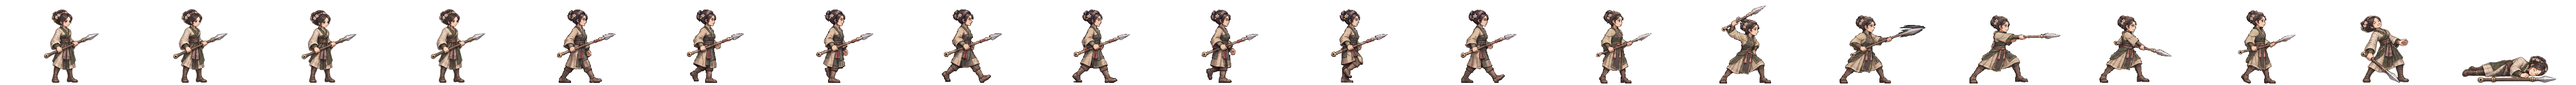
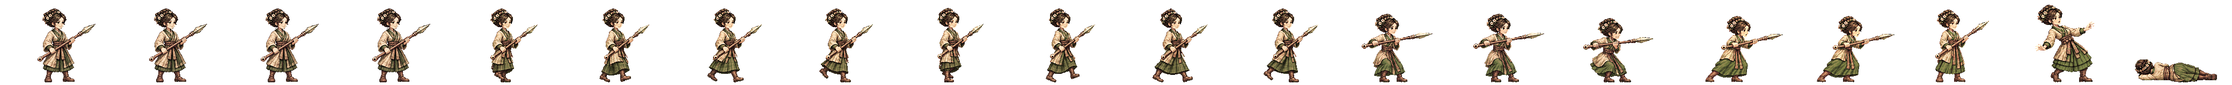
미리 군주 달래 새 전투 띠를 게임에 넣음(서기·걷기·창 찌르기 여덟 칸·쓰러짐·들꽃 고쳐 꽂기)
쓰러짐은 몸이 길게 나와 한 번 다시 그림(치마 길이·비율을 서기에 맞춤).
띠 검사 합격(경고 없음) · 시험 2162 통과.

Claude-Session: https://claude.ai/code/session_01TRiuN7s6aDfSnaHxrkctmU

Changed region(s): [[0.4688, 0.0625, 1.0, 1.0], [0.0, 0.125, 0.4375, 0.9688]]

diff --git a/src/realm/data/spritePx.ts b/src/realm/data/spritePx.ts
@@ -1,3 +1,3 @@
 /** public/realm/anim-px/manifest.json 의 사본 — tools/sprite-normalize.mjs 가 만든다 (손으로 고치지 말 것). 칸 [가로, 세로] · feet = 발 줄(칸 위에서 y) · bodyPx = 서 있는 몸 키 */
 import { expandManifest } from './sprite-manifest.ts'
-export const SPRITE_PX: Readonly<Record<string, { readonly cell: readonly [number, number]; readonly feet: number; readonly bodyPx: number; readonly kind: 'general' | 'soldier' | 'folk' | 'crowd'; readonly cells: number }>> = expandManifest<{ readonly cell: readonly [number, number]; readonly feet: number; readonly bodyPx: number; readonly kind: 'general' | 'soldier' | 'folk' | 'crowd'; readonly cells: number }>([{"cell":[166,128],"feet":126,"bodyPx":124,"kind":"soldier","cells":20},{"cell":[116,128],"feet":126,"bodyPx":117,"kind":"soldier","cells":20},{"cell":[127,128],"feet":126,"bodyPx":116,"kind":"soldier","cells":20},{"cell":[269,128],"feet":126,"bodyPx":126,"kind":"soldier","cells":20},{"cell":[503,128],"feet":126,"bodyPx":127,"kind":"soldier","cells":20},{"cell":[614,128],"feet":126,"bodyPx":126,"kind":"soldier","cells":20},{"cell":[200,160],"feet":156,"bodyPx":138,"kind":"general","cells":20},{"cell":[208,160],"feet":155,"bodyPx":138,"kind":"general","cells":20},{"cell":[232,160],"feet":156,"bodyPx":138,"kind":"general","cells":20},{"cell":[208,160],"feet":154,"bodyPx":138,"kind":"general","cells":20},{"cell":[304,160],"feet":155,"bodyPx":135,"kind":"general","cells":20},{"cell":[224,160],"feet":156,"bodyPx":139,"kind":"general","cells":20},{"cell":[184,160],"feet":156,"bodyPx":138,"kind":"general","cells":20},{"cell":[208,160],"feet":154,"bodyPx":136,"kind":"general","cells":20},{"cell":[240,160],"feet":156,"bodyPx":138,"kind":"general","cells":20},{"cell":[208,160],"feet":156,"bodyPx":138,"kind":"general","cells":20},{"cell":[168,160],"feet":156,"bodyPx":138,"kind":"general","cells":20},{"cell":[192,160],"feet":156,"bodyPx":138,"kind":"general","cells":20},{"cell":[168,160],"feet":156,"bodyPx":124,"kind":"general","cells":20},{"cell":[216,160],"feet":156,"bodyPx":130,"kind":"general","cells":20},{"cell":[200,160],"feet":156,"bodyPx":116,"kind":"general","cells":20},{"cell":[200,160],"feet":156,"bodyPx":135,"kind":"general","cells":20},{"cell":[280,160],"feet":156,"bodyPx":138,"kind":"general","cells":20},{"cell":[232,160],"feet":155,"bodyPx":138,"kind":"general","cells":20},{"cell":[232,160],"feet":156,"bodyPx":134,"kind":"general","cells":20},{"cell":[144,160],"feet":156,"bodyPx":70,"kind":"general","cells":20},{"cell":[208,160],"feet":156,"bodyPx":70,"kind":"general","cells":20},{"cell":[192,160],"feet":156,"bodyPx":70,"kind":"general","cells":20},{"cell":[240,160],"feet":155,"bodyPx":138,"kind":"general","cells":20},{"cell":[160,160],"feet":156,"bodyPx":135,"kind":"general","cells":20},{"cell":[192,160],"feet":156,"bodyPx":128,"kind":"general","cells":20},{"cell":[224,160],"feet":155,"bodyPx":138,"kind":"general","cells":20},{"cell":[232,160],"feet":156,"bodyPx":139,"kind":"general","cells":20},{"cell":[264,160],"feet":155,"bodyPx":138,"kind":"general","cells":20},{"cell":[216,160],"feet":156,"bodyPx":138,"kind":"general","cells":20},{"cell":[208,160],"feet":156,"bodyPx":134,"kind":"general","cells":20},{"cell":[176,160],"feet":156,"bodyPx":130,"kind":"general","cells":20},{"cell":[248,160],"feet":156,"bodyPx":138,"kind":"general","cells":20},{"cell":[248,160],"feet":155,"bodyPx":138,"kind":"general","cells":20},{"cell":[192,160],"feet":155,"bodyPx":138,"kind":"general","cells":20},{"cell":[192,160],"feet":156,"bodyPx":124,"kind":"general","cells":20},{"cell":[208,160],"feet":154,"bodyPx":131,"kind":"general","cells":20},{"cell":[256,160],"feet":156,"bodyPx":138,"kind":"general","cells":20},{"cell":[232,160],"feet":156,"bodyPx":73,"kind":"general","cells":20},{"cell":[256,160],"feet":155,"bodyPx":138,"kind":"general","cells":20},{"cell":[224,160],"feet":156,"bodyPx":138,"kind":"general","cells":20},{"cell":[264,160],"feet":156,"bodyPx":138,"kind":"general","cells":20},{"cell":[224,160],"feet":156,"bodyPx":128,"kind":"general","cells":20},{"cell":[176,160],"feet":156,"bodyPx":129,"kind":"general","cells":20},{"cell":[208,160],"feet":156,"bodyPx":132,"kind":"general","cells":20},{"cell":[216,160],"feet":155,"bodyPx":138,"kind":"general","cells":20},{"cell":[184,160],"feet":156,"bodyPx":122,"kind":"general","cells":20},{"cell":[176,160],"feet":156,"bodyPx":138,"kind":"general","cells":20},{"cell":[280,160],"feet":155,"bodyPx":133,"kind":"general","cells":20},{"cell":[176,160],"feet":156,"bodyPx":70,"kind":"general","cells":20},{"cell":[186,128],"feet":126,"bodyPx":127,"kind":"soldier","cells":20},{"cell":[298,128],"feet":126,"bodyPx":126,"kind":"soldier","cells":20},{"cell":[82,128],"feet":126,"bodyPx":114,"kind":"folk","cells":8},{"cell":[134,128],"feet":126,"bodyPx":119,"kind":"soldier","cells":20},{"cell":[380,128],"feet":126,"bodyPx":124,"kind":"soldier","cells":20},{"cell":[114,128],"feet":126,"bodyPx":115,"kind":"soldier","cells":20},{"cell":[122,128],"feet":126,"bodyPx":114,"kind":"soldier","cells":20},{"cell":[254,128],"feet":126,"bodyPx":128,"kind":"soldier","cells":20},{"cell":[438,128],"feet":126,"bodyPx":126,"kind":"soldier","cells":20},{"cell":[88,128],"feet":126,"bodyPx":113,"kind":"folk","cells":8},{"cell":[100,128],"feet":126,"bodyPx":115,"kind":"folk","cells":8},{"cell":[108,128],"feet":126,"bodyPx":115,"kind":"folk","cells":8},{"cell":[63,128],"feet":126,"bodyPx":113,"kind":"folk","cells":8},{"cell":[69,96],"feet":96,"bodyPx":96,"kind":"crowd","cells":1},{"cell":[54,96],"feet":96,"bodyPx":96,"kind":"crowd","cells":1},{"cell":[47,96],"feet":96,"bodyPx":96,"kind":"crowd","cells":1},{"cell":[49,96],"feet":96,"bodyPx":96,"kind":"crowd","cells":1},{"cell":[57,96],"feet":96,"bodyPx":96,"kind":"crowd","cells":1},{"cell":[55,96],"feet":96,"bodyPx":96,"kind":"crowd","cells":1},{"cell":[45,96],"feet":96,"bodyPx":96,"kind":"crowd","cells":1},{"cell":[53,96],"feet":96,"bodyPx":96,"kind":"crowd","cells":1},{"cell":[64,96],"feet":96,"bodyPx":96,"kind":"crowd","cells":1},{"cell":[208,160],"feet":154,"bodyPx":139,"kind":"general","cells":20},{"cell":[184,160],"feet":156,"bodyPx":124,"kind":"general","cells":20},{"cell":[184,160],"feet":156,"bodyPx":134,"kind":"general","cells":20},{"cell":[224,160],"feet":156,"bodyPx":133,"kind":"general","cells":20},{"cell":[192,160],"feet":156,"bodyPx":135,"kind":"general","cells":20},{"cell":[184,160],"feet":156,"bodyPx":137,"kind":"general","cells":20},{"cell":[216,160],"feet":156,"bodyPx":134,"kind":"general","cells":20},{"cell":[216,160],"feet":156,"bodyPx":132,"kind":"general","cells":20},{"cell":[288,160],"feet":156,"bodyPx":138,"kind":"general","cells":20},{"cell":[192,160],"feet":156,"bodyPx":118,"kind":"general","cells":20},{"cell":[192,160],"feet":156,"bodyPx":134,"kind":"general","cells":20},{"cell":[192,160],"feet":157,"bodyPx":139,"kind":"general","cells":20},{"cell":[184,160],"feet":156,"bodyPx":128,"kind":"general","cells":20},{"cell":[240,160],"feet":156,"bodyPx":128,"kind":"general","cells":20},{"cell":[184,160],"feet":156,"bodyPx":132,"kind":"general","cells":20},{"cell":[208,160],"feet":156,"bodyPx":123,"kind":"general","cells":20},{"cell":[208,160],"feet":154,"bodyPx":137,"kind":"general","cells":20},{"cell":[176,160],"feet":156,"bodyPx":116,"kind":"general","cells":20},{"cell":[272,160],"feet":156,"bodyPx":138,"kind":"general","cells":20},{"cell":[176,160],"feet":156,"bodyPx":122,"kind":"general","cells":20},{"cell":[232,160],"feet":156,"bodyPx":127,"kind":"general","cells":20},{"cell":[176,160],"feet":156,"bodyPx":137,"kind":"general","cells":20},{"cell":[184,160],"feet":156,"bodyPx":133,"kind":"general","cells":20}],[["axe",0],["bandit-chief",1],["bandit-club",2],["boat",3],["bow",4],["crossbow",5],["gen-adogan",6],["gen-alpyeong",7],["gen-ara",8],["gen-areum",9],["gen-aryeong",10],["gen-bakdal",6],["gen-baram",11],["gen-bdanbi",12],["gen-beom",13],["gen-beombal",12],["gen-beomi",14],["gen-bira",8],["gen-biryu",15],["gen-budeul",16],["gen-byeol",17],["gen-daemusin",18],["gen-daeso",19],["gen-dallae2",12],["gen-dalli",12],["gen-damul",20],["gen-danbi",15],["gen-dangung",17],["gen-darae",21],["gen-dokmudeom",7],["gen-duman",22],["gen-eomni",23],["gen-eureum",24],["gen-g-bow",25],["gen-g-spear",26],["gen-g-sword",27],["gen-gaennae",6],["gen-gamsil",28],["gen-gaon",29],["gen-geota",15],["gen-geumbawi",12],["gen-geumha",30],["gen-goeun",15],["gen-gom",31],["gen-gomok",15],["gen-gureum",28],["gen-guryema",17],["gen-gwaeyu",8],["gen-haebi",9],["gen-haedal",6],["gen-haesol",32],["gen-halla",7],["gen-heo",33],["gen-hneoul",12],["gen-hogong",34],["gen-hojin",15],["gen-horselord",35],["gen-hwalmi",36],["gen-hyeokgeose",17],["gen-hyeopbo",6],["gen-irang",15],["gen-jibaekho",37],["gen-jinha",38],["gen-jita",39],["gen-jumong",40],["gen-keundol",7],["gen-maehwa",41],["gen-maenun",17],["gen-malgalgi",42],["gen-mari",14],["gen-maro",37],["gen-maryeo",15],["gen-mdallae",32],["gen-mir",6],["gen-mount",43],["gen-mulbeom",44],["gen-mulsae",34],["gen-musoe",34],["gen-noeul",45],["gen-nuri",46],["gen-ocheongan",45],["gen-odi",38],["gen-odogan",6],["gen-ogan",17],["gen-oi",47],["gen-olddaeso",24],["gen-onjo",48],["gen-pidogan",15],["gen-sagong",31],["gen-sdallae",6],["gen-sincheongan",34],["gen-singwigan",34],["gen-sinneoul",23],["gen-sobeol",23],["gen-soebi",6],["gen-soebo",49],["gen-soenun",37],["gen-sogeumbi",50],["gen-songbi",45],["gen-songyang",51],["gen-sori",52],["gen-soseono",53],["gen-suro",17],["gen-tahae",6],["gen-tneoul",45],["gen-w-bow",25],["gen-w-spear",54],["gen-waechief",15],["gen-wan",34],["gen-yeodogan",15],["gen-yucheongan",15],["gen-yusugan",37],["horse",55],["marine",56],["migrant",57],["militia",58],["pike",59],["pirate-captain",60],["pirate-sword",61],["shield",62],["spear",63],["villager-builder",64],["villager-farmer",65],["villager-porter",66],["villager-woman",67],["crowd-b1",68],["crowd-b2",69],["crowd-b3",70],["crowd-b4",71],["crowd-b5",72],["crowd-b6",73],["crowd-f1",68],["crowd-f2",73],["crowd-f3",74],["crowd-f4",75],["crowd-f5",68],["crowd-f6",76],["gen-dalbit",15],["gen-base-g-07-drunk-warrior",17],["gen-base-g-40-anya-adan",15],["gen-base-w-13-young-archer",9],["gen-base-g-03-sea-trader",14],["gen-base-w-10-pirate-captain",77],["gen-base-w-64-miri-dallae",14],["gen-base-g-41-goja-bau",14],["gen-base-g-42-dokro-garam",46],["gen-base-g-09-farmer-conscript",34],["gen-base-w-02-goguryeo-lady",34],["gen-base-w-17-mahan-pearl-diver",9],["gen-base-g-17-saro-isageum",49],["gen-base-g-18-daegaya-king",78],["gen-base-g-35-dabeol-dalgu",15],["gen-base-g-19-sabeol-veteran",34],["gen-base-w-23-usisan-whale-queen",34],["gen-base-g-36-gammun-gamdol",45],["gen-base-g-20-samul-sea-lord",42],["gen-base-g-37-eumjeup-jeup",12],["gen-base-g-38-chopal-palmae",17],["gen-base-w-75-daegaya-soemoe",17],["gen-base-g-45-dabeol-deulgae",12],["gen-base-g-04-jinhan-giant",15],["gen-base-g-08-veteran",15],["gen-base-w-18-jinhan-salt-widow",15],["gen-base-w-12-court-dancer",79],["gen-base-w-83-gyeonji-beodeul",80],["gen-base-w-05-baekje-queen",81],["gen-base-w-21-baekje-court-dancer",12],["gen-base-g-01-master-smith",82],["gen-base-g-93-jomun-solgae",36],["gen-base-g-57-bihwa-neup",14],["gen-base-w-72-eumjeup-beol",15],["gen-base-w-102-garak-dana",34],["gen-base-g-68-baekje-onnuri",15],["gen-base-w-27-mokji-jinha",6],["gen-base-g-22-ungcheon-gomnae",6],["gen-base-g-23-sangdang-soedal",15],["gen-base-g-24-wansan-onsan",6],["gen-base-g-25-balla-keunmoe",34],["gen-base-g-61-heomcheuk-bawi",34],["gen-base-g-88-wander-soeul",45],["gen-base-w-14-feast-spy",6],["gen-base-g-12-silla-youth",83],["gen-base-w-08-mahan-warrior",14],["gen-base-g-62-beonye-hanul",14],["gen-base-g-63-heomcheuk-beogeum",15],["gen-base-g-84-wander-seoneul",15],["gen-base-w-50-siljik-mulga",34],["gen-base-g-46-uga-nureongso",34],["gen-base-w-80-usan-gangchi",14],["gen-base-g-47-guga-sanyanggae",34],["gen-base-w-76-gampyeong-baetsagong",37],["gen-base-g-05-mahan-chieftain",84],["gen-base-g-58-usan-uhae",15],["gen-base-g-27-maek-maekdol",15],["gen-base-w-53-hwanna-gabi",16],["gen-base-w-29-golpo-janmul",37],["gen-base-g-53-baekje-haeru",6],["gen-base-w-71-yeonna-neoul",14],["gen-base-w-79-yangmaek-solmae",34],["gen-base-w-34-chopal-deulme",46],["gen-base-g-44-maga-malgup",85],["gen-base-w-31-dabeol-dalbit",77],["gen-base-g-51-biryuna-mulgyeol",45],["gen-base-g-48-gwanna-musoe",15],["gen-base-g-32-uga-sodu",8],["gen-base-g-49-goguryeo-sona",86],["gen-base-g-30-gwanna-soemoe",45],["gen-base-g-52-tamna-oreum",12],["gen-base-g-29-yeonna-myeongsol",40],["gen-base-w-56-dongokjeo-sogeum",87],["gen-base-g-54-mokji-mahan",8],["gen-base-g-33-jeoga-metdol",17],["gen-base-w-36-baekje-maena",17],["gen-base-w-38-sangdang-bulmae",6],["gen-base-w-39-gosaburi-galmae",88],["gen-base-w-40-mujin-munui",49],["gen-base-w-41-hwanna-beodeul",89],["gen-base-w-43-uga-nuri",42],["gen-base-w-45-tamna-oreumbi",12],["gen-base-g-60-golbeol-golgae",12],["gen-base-g-61-apdok-ap",34],["gen-base-g-62-gammun-gamnamu",6],["gen-base-g-63-chopal-yeoul",37],["gen-base-g-64-michuhol-sogeumkkun",14],["gen-base-g-65-sangdang-soemangchi",45],["gen-base-g-66-geonma-malbalgup",90],["gen-base-g-67-gosaburi-buri",91],["gen-base-g-68-mujin-bitgoeul",12],["gen-base-g-69-goryong-yong",45],["gen-base-g-70-siljik-pado",14],["gen-base-w-81-byeokjin-byeolbit",8],["gen-base-w-46-geonma-maru",37],["gen-base-w-48-mujin-mudeung",14],["gen-base-g-26-gampyeong-gaetbeol",8],["gen-base-g-60-eupcha-hangyeol",92],["gen-base-g-15-shaman-man",34],["gen-base-g-85-wander-ure",37],["gen-base-g-43-hwanna-amnok",15],["gen-base-g-50-bullae-gwaha",81],["gen-base-g-55-saro-bakdal",15],["gen-base-g-56-haseulla-gwahama",6],["gen-base-w-06-buyeo-huntress",93],["gen-base-w-22-dongye-tiger-huntress",14],["gen-base-w-25-bihwa-priestess",34],["gen-base-w-24-apdok-queen",12],["gen-base-w-61-iseo-sinae",15],["gen-base-w-26-iseo-tomboy-general",46],["gen-base-g-59-yangmaek-maekson",94],["gen-aw1-haebi",45],["gen-aw1-soseono",95],["gen-aw1-gamsil",12],["gen-aw1-mir",52],["gen-aw1-dangung",6],["gen-aw1-ara",45],["gen-aw1-jumong",96],["gen-aw1-onjo",97],["gen-aw1-base-w-83-gyeonji-beodeul",17],["gen-aw1-heo",46],["gen-aw1-base-g-38-chopal-palmae",6],["gen-aw1-base-w-25-bihwa-priestess",79],["gen-aw1-sori",16],["gen-aw1-gomok",6],["gen-aw1-irang",17],["gen-aw1-budeul",16],["gen-aw1-gom",14],["gen-aw1-sdallae",6],["gen-aw1-base-w-13-young-archer",6],["gen-aw1-base-w-36-baekje-maena",98],["gen-aw1-base-g-09-farmer-conscript",46],["gen-aw1-base-w-02-goguryeo-lady",99],["gen-aw1-haedal",12],["gen-aw1-hogong",6],["gen-aw1-maehwa",52],["gen-aw1-base-w-06-buyeo-huntress",8],["gen-aw1-base-w-08-mahan-warrior",45],["gen-aw1-base-w-29-golpo-janmul",45],["gen-aw1-base-w-31-dabeol-dalbit",17],["gen-aw1-base-w-38-sangdang-bulmae",16],["gen-aw1-bira",34],["gen-aw1-base-w-53-hwanna-gabi",16],["gen-aw1-base-w-56-dongokjeo-sogeum",52],["gen-aw1-base-w-72-eumjeup-beol",17],["gen-aw1-bdanbi",16],["gen-aw1-beom",12],["gen-aw1-beombal",12],["gen-aw1-byeol",17],["gen-aw1-dalli",52],["gen-aw1-malgalgi",37],["gen-aw1-sincheongan",34]])
+export const SPRITE_PX: Readonly<Record<string, { readonly cell: readonly [number, number]; readonly feet: number; readonly bodyPx: number; readonly kind: 'general' | 'soldier' | 'folk' | 'crowd'; readonly cells: number }>> = expandManifest<{ readonly cell: readonly [number, number]; readonly feet: number; readonly bodyPx: number; readonly kind: 'general' | 'soldier' | 'folk' | 'crowd'; readonly cells: number }>([{"cell":[166,128],"feet":126,"bodyPx":124,"kind":"soldier","cells":20},{"cell":[116,128],"feet":126,"bodyPx":117,"kind":"soldier","cells":20},{"cell":[127,128],"feet":126,"bodyPx":116,"kind":"soldier","cells":20},{"cell":[269,128],"feet":126,"bodyPx":126,"kind":"soldier","cells":20},{"cell":[503,128],"feet":126,"bodyPx":127,"kind":"soldier","cells":20},{"cell":[614,128],"feet":126,"bodyPx":126,"kind":"soldier","cells":20},{"cell":[200,160],"feet":156,"bodyPx":138,"kind":"general","cells":20},{"cell":[208,160],"feet":155,"bodyPx":138,"kind":"general","cells":20},{"cell":[232,160],"feet":156,"bodyPx":138,"kind":"general","cells":20},{"cell":[208,160],"feet":154,"bodyPx":138,"kind":"general","cells":20},{"cell":[304,160],"feet":155,"bodyPx":135,"kind":"general","cells":20},{"cell":[224,160],"feet":156,"bodyPx":139,"kind":"general","cells":20},{"cell":[184,160],"feet":156,"bodyPx":138,"kind":"general","cells":20},{"cell":[208,160],"feet":154,"bodyPx":136,"kind":"general","cells":20},{"cell":[240,160],"feet":156,"bodyPx":138,"kind":"general","cells":20},{"cell":[208,160],"feet":156,"bodyPx":138,"kind":"general","cells":20},{"cell":[168,160],"feet":156,"bodyPx":138,"kind":"general","cells":20},{"cell":[192,160],"feet":156,"bodyPx":138,"kind":"general","cells":20},{"cell":[168,160],"feet":156,"bodyPx":124,"kind":"general","cells":20},{"cell":[216,160],"feet":156,"bodyPx":130,"kind":"general","cells":20},{"cell":[200,160],"feet":156,"bodyPx":116,"kind":"general","cells":20},{"cell":[200,160],"feet":156,"bodyPx":135,"kind":"general","cells":20},{"cell":[280,160],"feet":156,"bodyPx":138,"kind":"general","cells":20},{"cell":[232,160],"feet":155,"bodyPx":138,"kind":"general","cells":20},{"cell":[232,160],"feet":156,"bodyPx":134,"kind":"general","cells":20},{"cell":[144,160],"feet":156,"bodyPx":70,"kind":"general","cells":20},{"cell":[208,160],"feet":156,"bodyPx":70,"kind":"general","cells":20},{"cell":[192,160],"feet":156,"bodyPx":70,"kind":"general","cells":20},{"cell":[240,160],"feet":155,"bodyPx":138,"kind":"general","cells":20},{"cell":[160,160],"feet":156,"bodyPx":135,"kind":"general","cells":20},{"cell":[192,160],"feet":156,"bodyPx":128,"kind":"general","cells":20},{"cell":[224,160],"feet":155,"bodyPx":138,"kind":"general","cells":20},{"cell":[232,160],"feet":156,"bodyPx":139,"kind":"general","cells":20},{"cell":[264,160],"feet":155,"bodyPx":138,"kind":"general","cells":20},{"cell":[216,160],"feet":156,"bodyPx":138,"kind":"general","cells":20},{"cell":[208,160],"feet":156,"bodyPx":134,"kind":"general","cells":20},{"cell":[176,160],"feet":156,"bodyPx":130,"kind":"general","cells":20},{"cell":[248,160],"feet":156,"bodyPx":138,"kind":"general","cells":20},{"cell":[248,160],"feet":155,"bodyPx":138,"kind":"general","cells":20},{"cell":[192,160],"feet":155,"bodyPx":138,"kind":"general","cells":20},{"cell":[192,160],"feet":156,"bodyPx":124,"kind":"general","cells":20},{"cell":[208,160],"feet":154,"bodyPx":131,"kind":"general","cells":20},{"cell":[256,160],"feet":156,"bodyPx":138,"kind":"general","cells":20},{"cell":[232,160],"feet":156,"bodyPx":73,"kind":"general","cells":20},{"cell":[256,160],"feet":155,"bodyPx":138,"kind":"general","cells":20},{"cell":[224,160],"feet":156,"bodyPx":138,"kind":"general","cells":20},{"cell":[264,160],"feet":156,"bodyPx":138,"kind":"general","cells":20},{"cell":[224,160],"feet":156,"bodyPx":128,"kind":"general","cells":20},{"cell":[176,160],"feet":156,"bodyPx":129,"kind":"general","cells":20},{"cell":[208,160],"feet":156,"bodyPx":132,"kind":"general","cells":20},{"cell":[216,160],"feet":155,"bodyPx":138,"kind":"general","cells":20},{"cell":[184,160],"feet":156,"bodyPx":122,"kind":"general","cells":20},{"cell":[176,160],"feet":156,"bodyPx":138,"kind":"general","cells":20},{"cell":[280,160],"feet":155,"bodyPx":133,"kind":"general","cells":20},{"cell":[176,160],"feet":156,"bodyPx":70,"kind":"general","cells":20},{"cell":[186,128],"feet":126,"bodyPx":127,"kind":"soldier","cells":20},{"cell":[298,128],"feet":126,"bodyPx":126,"kind":"soldier","cells":20},{"cell":[82,128],"feet":126,"bodyPx":114,"kind":"folk","cells":8},{"cell":[134,128],"feet":126,"bodyPx":119,"kind":"soldier","cells":20},{"cell":[380,128],"feet":126,"bodyPx":124,"kind":"soldier","cells":20},{"cell":[114,128],"feet":126,"bodyPx":115,"kind":"soldier","cells":20},{"cell":[122,128],"feet":126,"bodyPx":114,"kind":"soldier","cells":20},{"cell":[254,128],"feet":126,"bodyPx":128,"kind":"soldier","cells":20},{"cell":[438,128],"feet":126,"bodyPx":126,"kind":"soldier","cells":20},{"cell":[88,128],"feet":126,"bodyPx":113,"kind":"folk","cells":8},{"cell":[100,128],"feet":126,"bodyPx":115,"kind":"folk","cells":8},{"cell":[108,128],"feet":126,"bodyPx":115,"kind":"folk","cells":8},{"cell":[63,128],"feet":126,"bodyPx":113,"kind":"folk","cells":8},{"cell":[69,96],"feet":96,"bodyPx":96,"kind":"crowd","cells":1},{"cell":[54,96],"feet":96,"bodyPx":96,"kind":"crowd","cells":1},{"cell":[47,96],"feet":96,"bodyPx":96,"kind":"crowd","cells":1},{"cell":[49,96],"feet":96,"bodyPx":96,"kind":"crowd","cells":1},{"cell":[57,96],"feet":96,"bodyPx":96,"kind":"crowd","cells":1},{"cell":[55,96],"feet":96,"bodyPx":96,"kind":"crowd","cells":1},{"cell":[45,96],"feet":96,"bodyPx":96,"kind":"crowd","cells":1},{"cell":[53,96],"feet":96,"bodyPx":96,"kind":"crowd","cells":1},{"cell":[64,96],"feet":96,"bodyPx":96,"kind":"crowd","cells":1},{"cell":[208,160],"feet":154,"bodyPx":139,"kind":"general","cells":20},{"cell":[184,160],"feet":156,"bodyPx":124,"kind":"general","cells":20},{"cell":[184,160],"feet":156,"bodyPx":134,"kind":"general","cells":20},{"cell":[224,160],"feet":156,"bodyPx":133,"kind":"general","cells":20},{"cell":[192,160],"feet":156,"bodyPx":135,"kind":"general","cells":20},{"cell":[184,160],"feet":156,"bodyPx":137,"kind":"general","cells":20},{"cell":[216,160],"feet":156,"bodyPx":134,"kind":"general","cells":20},{"cell":[216,160],"feet":156,"bodyPx":132,"kind":"general","cells":20},{"cell":[288,160],"feet":156,"bodyPx":138,"kind":"general","cells":20},{"cell":[192,160],"feet":156,"bodyPx":118,"kind":"general","cells":20},{"cell":[192,160],"feet":156,"bodyPx":134,"kind":"general","cells":20},{"cell":[192,160],"feet":157,"bodyPx":139,"kind":"general","cells":20},{"cell":[184,160],"feet":156,"bodyPx":128,"kind":"general","cells":20},{"cell":[240,160],"feet":156,"bodyPx":128,"kind":"general","cells":20},{"cell":[184,160],"feet":156,"bodyPx":132,"kind":"general","cells":20},{"cell":[208,160],"feet":156,"bodyPx":123,"kind":"general","cells":20},{"cell":[208,160],"feet":154,"bodyPx":137,"kind":"general","cells":20},{"cell":[176,160],"feet":156,"bodyPx":116,"kind":"general","cells":20},{"cell":[272,160],"feet":156,"bodyPx":138,"kind":"general","cells":20},{"cell":[176,160],"feet":156,"bodyPx":122,"kind":"general","cells":20},{"cell":[232,160],"feet":156,"bodyPx":127,"kind":"general","cells":20},{"cell":[176,160],"feet":156,"bodyPx":137,"kind":"general","cells":20},{"cell":[184,160],"feet":156,"bodyPx":133,"kind":"general","cells":20}],[["axe",0],["bandit-chief",1],["bandit-club",2],["boat",3],["bow",4],["crossbow",5],["gen-adogan",6],["gen-alpyeong",7],["gen-ara",8],["gen-areum",9],["gen-aryeong",10],["gen-bakdal",6],["gen-baram",11],["gen-bdanbi",12],["gen-beom",13],["gen-beombal",12],["gen-beomi",14],["gen-bira",8],["gen-biryu",15],["gen-budeul",16],["gen-byeol",17],["gen-daemusin",18],["gen-daeso",19],["gen-dallae2",12],["gen-dalli",12],["gen-damul",20],["gen-danbi",15],["gen-dangung",17],["gen-darae",21],["gen-dokmudeom",7],["gen-duman",22],["gen-eomni",23],["gen-eureum",24],["gen-g-bow",25],["gen-g-spear",26],["gen-g-sword",27],["gen-gaennae",6],["gen-gamsil",28],["gen-gaon",29],["gen-geota",15],["gen-geumbawi",12],["gen-geumha",30],["gen-goeun",15],["gen-gom",31],["gen-gomok",15],["gen-gureum",28],["gen-guryema",17],["gen-gwaeyu",8],["gen-haebi",9],["gen-haedal",6],["gen-haesol",32],["gen-halla",7],["gen-heo",33],["gen-hneoul",12],["gen-hogong",34],["gen-hojin",15],["gen-horselord",35],["gen-hwalmi",36],["gen-hyeokgeose",17],["gen-hyeopbo",6],["gen-irang",15],["gen-jibaekho",37],["gen-jinha",38],["gen-jita",39],["gen-jumong",40],["gen-keundol",7],["gen-maehwa",41],["gen-maenun",17],["gen-malgalgi",42],["gen-mari",14],["gen-maro",37],["gen-maryeo",15],["gen-mdallae",32],["gen-mir",6],["gen-mount",43],["gen-mulbeom",44],["gen-mulsae",34],["gen-musoe",34],["gen-noeul",45],["gen-nuri",46],["gen-ocheongan",45],["gen-odi",38],["gen-odogan",6],["gen-ogan",17],["gen-oi",47],["gen-olddaeso",24],["gen-onjo",48],["gen-pidogan",15],["gen-sagong",31],["gen-sdallae",6],["gen-sincheongan",34],["gen-singwigan",34],["gen-sinneoul",23],["gen-sobeol",23],["gen-soebi",6],["gen-soebo",49],["gen-soenun",37],["gen-sogeumbi",50],["gen-songbi",45],["gen-songyang",51],["gen-sori",52],["gen-soseono",53],["gen-suro",17],["gen-tahae",6],["gen-tneoul",45],["gen-w-bow",25],["gen-w-spear",54],["gen-waechief",15],["gen-wan",34],["gen-yeodogan",15],["gen-yucheongan",15],["gen-yusugan",37],["horse",55],["marine",56],["migrant",57],["militia",58],["pike",59],["pirate-captain",60],["pirate-sword",61],["shield",62],["spear",63],["villager-builder",64],["villager-farmer",65],["villager-porter",66],["villager-woman",67],["crowd-b1",68],["crowd-b2",69],["crowd-b3",70],["crowd-b4",71],["crowd-b5",72],["crowd-b6",73],["crowd-f1",68],["crowd-f2",73],["crowd-f3",74],["crowd-f4",75],["crowd-f5",68],["crowd-f6",76],["gen-dalbit",15],["gen-base-g-07-drunk-warrior",17],["gen-base-g-40-anya-adan",15],["gen-base-w-13-young-archer",9],["gen-base-g-03-sea-trader",14],["gen-base-w-10-pirate-captain",77],["gen-base-w-64-miri-dallae",77],["gen-base-g-41-goja-bau",14],["gen-base-g-42-dokro-garam",46],["gen-base-g-09-farmer-conscript",34],["gen-base-w-02-goguryeo-lady",34],["gen-base-w-17-mahan-pearl-diver",9],["gen-base-g-17-saro-isageum",49],["gen-base-g-18-daegaya-king",78],["gen-base-g-35-dabeol-dalgu",15],["gen-base-g-19-sabeol-veteran",34],["gen-base-w-23-usisan-whale-queen",34],["gen-base-g-36-gammun-gamdol",45],["gen-base-g-20-samul-sea-lord",42],["gen-base-g-37-eumjeup-jeup",12],["gen-base-g-38-chopal-palmae",17],["gen-base-w-75-daegaya-soemoe",17],["gen-base-g-45-dabeol-deulgae",12],["gen-base-g-04-jinhan-giant",15],["gen-base-g-08-veteran",15],["gen-base-w-18-jinhan-salt-widow",15],["gen-base-w-12-court-dancer",79],["gen-base-w-83-gyeonji-beodeul",80],["gen-base-w-05-baekje-queen",81],["gen-base-w-21-baekje-court-dancer",12],["gen-base-g-01-master-smith",82],["gen-base-g-93-jomun-solgae",36],["gen-base-g-57-bihwa-neup",14],["gen-base-w-72-eumjeup-beol",15],["gen-base-w-102-garak-dana",34],["gen-base-g-68-baekje-onnuri",15],["gen-base-w-27-mokji-jinha",6],["gen-base-g-22-ungcheon-gomnae",6],["gen-base-g-23-sangdang-soedal",15],["gen-base-g-24-wansan-onsan",6],["gen-base-g-25-balla-keunmoe",34],["gen-base-g-61-heomcheuk-bawi",34],["gen-base-g-88-wander-soeul",45],["gen-base-w-14-feast-spy",6],["gen-base-g-12-silla-youth",83],["gen-base-w-08-mahan-warrior",14],["gen-base-g-62-beonye-hanul",14],["gen-base-g-63-heomcheuk-beogeum",15],["gen-base-g-84-wander-seoneul",15],["gen-base-w-50-siljik-mulga",34],["gen-base-g-46-uga-nureongso",34],["gen-base-w-80-usan-gangchi",14],["gen-base-g-47-guga-sanyanggae",34],["gen-base-w-76-gampyeong-baetsagong",37],["gen-base-g-05-mahan-chieftain",84],["gen-base-g-58-usan-uhae",15],["gen-base-g-27-maek-maekdol",15],["gen-base-w-53-hwanna-gabi",16],["gen-base-w-29-golpo-janmul",37],["gen-base-g-53-baekje-haeru",6],["gen-base-w-71-yeonna-neoul",14],["gen-base-w-79-yangmaek-solmae",34],["gen-base-w-34-chopal-deulme",46],["gen-base-g-44-maga-malgup",85],["gen-base-w-31-dabeol-dalbit",77],["gen-base-g-51-biryuna-mulgyeol",45],["gen-base-g-48-gwanna-musoe",15],["gen-base-g-32-uga-sodu",8],["gen-base-g-49-goguryeo-sona",86],["gen-base-g-30-gwanna-soemoe",45],["gen-base-g-52-tamna-oreum",12],["gen-base-g-29-yeonna-myeongsol",40],["gen-base-w-56-dongokjeo-sogeum",87],["gen-base-g-54-mokji-mahan",8],["gen-base-g-33-jeoga-metdol",17],["gen-base-w-36-baekje-maena",17],["gen-base-w-38-sangdang-bulmae",6],["gen-base-w-39-gosaburi-galmae",88],["gen-base-w-40-mujin-munui",49],["gen-base-w-41-hwanna-beodeul",89],["gen-base-w-43-uga-nuri",42],["gen-base-w-45-tamna-oreumbi",12],["gen-base-g-60-golbeol-golgae",12],["gen-base-g-61-apdok-ap",34],["gen-base-g-62-gammun-gamnamu",6],["gen-base-g-63-chopal-yeoul",37],["gen-base-g-64-michuhol-sogeumkkun",14],["gen-base-g-65-sangdang-soemangchi",45],["gen-base-g-66-geonma-malbalgup",90],["gen-base-g-67-gosaburi-buri",91],["gen-base-g-68-mujin-bitgoeul",12],["gen-base-g-69-goryong-yong",45],["gen-base-g-70-siljik-pado",14],["gen-base-w-81-byeokjin-byeolbit",8],["gen-base-w-46-geonma-maru",37],["gen-base-w-48-mujin-mudeung",14],["gen-base-g-26-gampyeong-gaetbeol",8],["gen-base-g-60-eupcha-hangyeol",92],["gen-base-g-15-shaman-man",34],["gen-base-g-85-wander-ure",37],["gen-base-g-43-hwanna-amnok",15],["gen-base-g-50-bullae-gwaha",81],["gen-base-g-55-saro-bakdal",15],["gen-base-g-56-haseulla-gwahama",6],["gen-base-w-06-buyeo-huntress",93],["gen-base-w-22-dongye-tiger-huntress",14],["gen-base-w-25-bihwa-priestess",34],["gen-base-w-24-apdok-queen",12],["gen-base-w-61-iseo-sinae",15],["gen-base-w-26-iseo-tomboy-general",46],["gen-base-g-59-yangmaek-maekson",94],["gen-aw1-haebi",45],["gen-aw1-soseono",95],["gen-aw1-gamsil",12],["gen-aw1-mir",52],["gen-aw1-dangung",6],["gen-aw1-ara",45],["gen-aw1-jumong",96],["gen-aw1-onjo",97],["gen-aw1-base-w-83-gyeonji-beodeul",17],["gen-aw1-heo",46],["gen-aw1-base-g-38-chopal-palmae",6],["gen-aw1-base-w-25-bihwa-priestess",79],["gen-aw1-sori",16],["gen-aw1-gomok",6],["gen-aw1-irang",17],["gen-aw1-budeul",16],["gen-aw1-gom",14],["gen-aw1-sdallae",6],["gen-aw1-base-w-13-young-archer",6],["gen-aw1-base-w-36-baekje-maena",98],["gen-aw1-base-g-09-farmer-conscript",46],["gen-aw1-base-w-02-goguryeo-lady",99],["gen-aw1-haedal",12],["gen-aw1-hogong",6],["gen-aw1-maehwa",52],["gen-aw1-base-w-06-buyeo-huntress",8],["gen-aw1-base-w-08-mahan-warrior",45],["gen-aw1-base-w-29-golpo-janmul",45],["gen-aw1-base-w-31-dabeol-dalbit",17],["gen-aw1-base-w-38-sangdang-bulmae",16],["gen-aw1-bira",34],["gen-aw1-base-w-53-hwanna-gabi",16],["gen-aw1-base-w-56-dongokjeo-sogeum",52],["gen-aw1-base-w-72-eumjeup-beol",17],["gen-aw1-bdanbi",16],["gen-aw1-beom",12],["gen-aw1-beombal",12],["gen-aw1-byeol",17],["gen-aw1-dalli",52],["gen-aw1-malgalgi",37],["gen-aw1-sincheongan",34]])

diff --git a/src/tune/params.ts b/src/tune/params.ts
@@ -1419,6 +1419,7 @@ export const HAEBI_IDLE = {
     'base-w-10-pirate-captain': { cells: 34, base: [0, 1], hold: 2.4, fall: [18, 20, 21, 19], quirk: [22, 23, 24, 25], quirkTimes: [.3, .32, .4, .28], attack: { cells: [26, 27, 28, 29, 30, 31, 32, 33], times: [.09, .08, .11, .05, .15, .07, .08, .12], hit: 4 }, xGeom: { h: 224, root: 92, foot: 216 } },
     'base-w-17-mahan-pearl-diver': { cells: 34, base: [0, 1], hold: 2.4, fall: [18, 20, 21, 19], quirk: [22, 23, 24, 25], quirkTimes: [.3, .32, .4, .28], attack: { cells: [26, 27, 28, 29, 30, 31, 32, 33], times: [.09, .08, .11, .12, .12, .08, .08, .12], hit: 3 }, xGeom: { h: 224, root: 92, foot: 216 } },
     'base-w-06-buyeo-huntress': { cells: 34, base: [0, 1], hold: 2.4, fall: [18, 20, 21, 19], quirk: [22, 23, 24, 25], quirkTimes: [.3, .32, .4, .28], attack: { cells: [26, 27, 28, 29, 30, 31, 32, 33], times: [.09, .08, .11, .05, .15, .07, .08, .12], hit: 4 }, xGeom: { h: 224, root: 92, foot: 216 } },
+    'base-w-64-miri-dallae': { cells: 34, base: [0, 1], hold: 2.4, fall: [18, 20, 21, 19], quirk: [22, 23, 24, 25], quirkTimes: [.3, .32, .4, .28], attack: { cells: [26, 27, 28, 29, 30, 31, 32, 33], times: [.09, .08, .11, .05, .15, .07, .08, .12], hit: 4 }, xGeom: { h: 224, root: 92, foot: 216 } },
   },
 } as const
 export const HAEBI_ANIM = {

diff --git a/src/duel/view.ts b/src/duel/view.ts
@@ -100,7 +100,7 @@ const crowdFront = [1, 2, 3, 4, 5, 6].map((i) => img(`realm/duel/crowd/b${i}.png
 const crowdReady = (set: HTMLImageElement[]): boolean => set.every((im) => im.complete && im.naturalWidth > 0)
 const pxMode = cfg.px !== false && params.get('px') !== '0'
 /** 겨루기 전용 옛 띠(duel/sprites) 대신 열전과 같은 도트 띠(anim-px)를 쓰는 장수 — 두 판에서 같은 모습 · 서기 계획·쓰러지는 칸도 같다 (11-23 범 · 매화 · 달빛 · 11-24 해비 · 아룸) */
-const PX_DUEL: ReadonlySet<string> = new Set(['beom', 'maehwa', 'base-w-31-dabeol-dalbit', 'haebi', 'areum', 'base-w-13-young-archer', 'base-w-10-pirate-captain', 'base-w-17-mahan-pearl-diver', 'base-w-06-buyeo-huntress'])
+const PX_DUEL: ReadonlySet<string> = new Set(['beom', 'maehwa', 'base-w-31-dabeol-dalbit', 'haebi', 'areum', 'base-w-13-young-archer', 'base-w-10-pirate-captain', 'base-w-17-mahan-pearl-diver', 'base-w-06-buyeo-huntress', 'base-w-64-miri-dallae'])
 /** 띠 그림 — 기본은 anim-px(도트 규격) 먼저, 없으면 옛 띠로 (img 의 onerror 가 갈아 끼운다) */
 const strip = (s: string): HTMLImageElement => pxMode
   ? DUEL_ATLASES[s] !== undefined && !PX_DUEL.has(s) ? img(`realm/duel/sprites/gen-${s}.png`, `realm/anim-px/gen-${s}.png`)

diff --git a/src/raid/hero-hd.ts b/src/raid/hero-hd.ts
@@ -14,7 +14,6 @@ export const HERO_HD: Readonly<Record<string, string>> = {
   'anim-px/gen-base-w-75-daegaya-soemoe.png': 'anim-px/gen-base-w-75-daegaya-soemoe_hd.png',
   'anim-px/gen-base-w-72-eumjeup-beol.png': 'anim-px/gen-base-w-72-eumjeup-beol_hd.png',
   'anim-px/gen-base-w-71-yeonna-neoul.png': 'anim-px/gen-base-w-71-yeonna-neoul_hd.png',
-  'anim-px/gen-base-w-64-miri-dallae.png': 'anim-px/gen-base-w-64-miri-dallae_hd.png',
   'anim-px/gen-base-w-61-iseo-sinae.png': 'anim-px/gen-base-w-61-iseo-sinae_hd.png',
   'anim-px/gen-base-w-53-hwanna-gabi.png': 'anim-px/gen-base-w-53-hwanna-gabi_hd.png',
   'anim-px/gen-base-w-50-siljik-mulga.png': 'anim-px/gen-base-w-50-siljik-mulga_hd.png',
